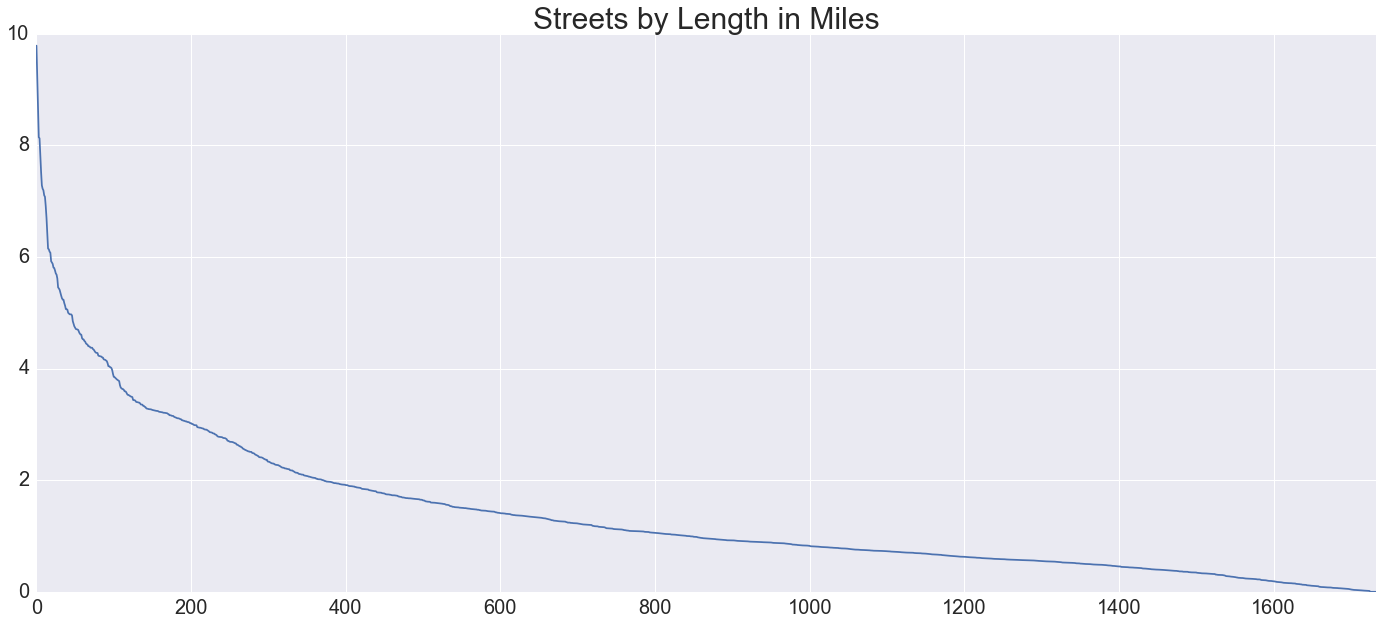
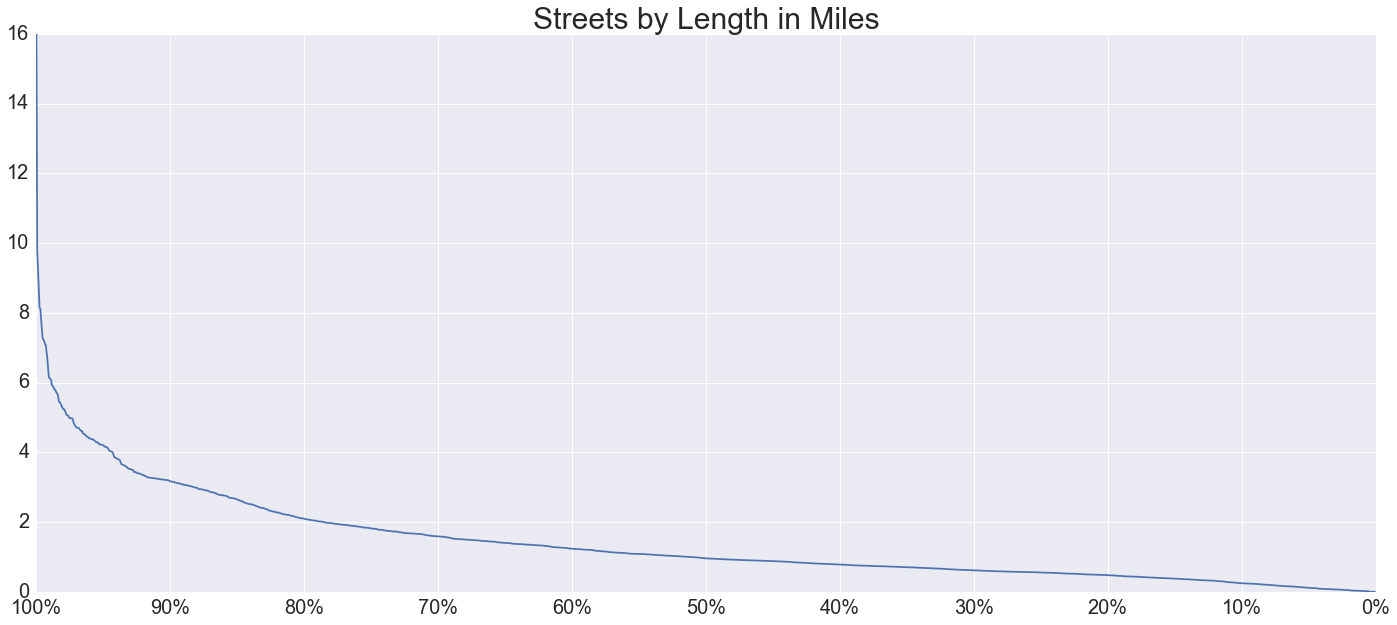
+

diff --git a/templates/posts/nyc-addresses.html b/templates/posts/nyc-addresses.html
@@ -290,20 +290,18 @@ def generate(df, proj, street_name, n=20):
 </p>
 
 <p>
-    For now I'm just going to use this fancy new tool to generate what we both really want to see.
+    For now I'm just going to use this fancy new tool to look at the longest streets in New York City.
 </p>
 
 <p>
-    Our algorithm discovers 1788 uniquely identifiable streets in New York City (note that since I made no effort
-    to split different streets with the same name, this is actually an undercount). If we sort them all by
-    length we find that street length fits a very neat exponential curve:
+    If you sort all of the streets in New York City by length you get a neat if slightly exaggerated exponential curve:
 </p>
 
 <img src="/static/post_assets/nyc-addresses/streets-by-length.png" class="inline_image_full"
      alt="Data.""/>
 
 <p>
-    And, finally, we focus in on our winners:
+    And, finally, we focus in on our winners&mdash;the ten longest streets in New York City (units in miles):
 </p>
 
 <!-- Build a d3 for it! -->
@@ -311,10 +309,13 @@ def generate(df, proj, street_name, n=20):
 
 <!--<h3>Address Numbering</h3>-->
 
+<iframe src="{{request.url_root}}longest-streets.html" marginwidth="0" marginheight="0" scrolling="no"
+        style="transform:translate(-95px, 0); height:750px" class="inline_iframe"></iframe>
+
 <p class="addendum">
-    If you're interested in Manhattan addressing Ben Wellington of IQuantNY awhile ago published <a
+    Want more? Ben Wellington of IQuantNY awhile ago published <a
         href="http://iquantny.tumblr.com/post/102509139169/colorfully-decoding-manhattans-address-system">an
-    excellent analysis on the subject</a>, also using PLUTO data, that's well worth reading!
+    excellent analysis on Manhattan addressing</a>, also using PLUTO data, that's well worth reading!
 </p>
 
 {% endblock %}

diff --git a/templates/visualizations/longest-streets.html b/templates/visualizations/longest-streets.html
@@ -56,7 +56,7 @@
 
         var max_street_length = streets['features'][0]['properties']['distance'];
         var width = 960;
-        var bar_chart_height = 250;
+        var bar_chart_height = 240;
         var bar_padding = 1;
         var bar_width = (width - 55) / streets['features'].length - bar_padding;
         var max_height = bar_chart_height;
@@ -67,11 +67,11 @@
             "shape-rendering": "crispEdges"
         });
 
-        var map_height = 500;
+        var map_height = 450;
 
         var proj = d3.geo.mercator()
                 .center([-74.00, 40.70])
-                .scale(50000)
+                .scale(45000)
                 .translate([(width) / 2, (map_height) / 2]);
 
         var path = d3.geo.path()
@@ -100,7 +100,7 @@
 
         });
 
-        var y = d3.scale.linear().domain([10, 0]).range([30, max_height - 5]);
+        var y = d3.scale.linear().domain([16, 0]).range([30, max_height - 5]);
 
         var yAxis = d3.svg.axis()
                 .scale(y)

diff --git a/app.py b/app.py
@@ -110,8 +110,8 @@ post_list = [
     },
     {
         'title': 'Addressing in New York City',
-        'route': '2016/05/29/nyc-addresses.html',
-        'date': datetime(2016, 5, 29),
+        'route': '2016/06/01/nyc-addresses.html',
+        'date': datetime(2016, 6, 1),
         'template': 'nyc-addresses.html',
         'snap': 'empty.png'
     }
@@ -166,5 +166,5 @@ def serve(path):
 
 
 if __name__ == '__main__':
-    # app.run()
-    app.run(debug=True)
+    app.run()
+    # app.run(debug=True)
